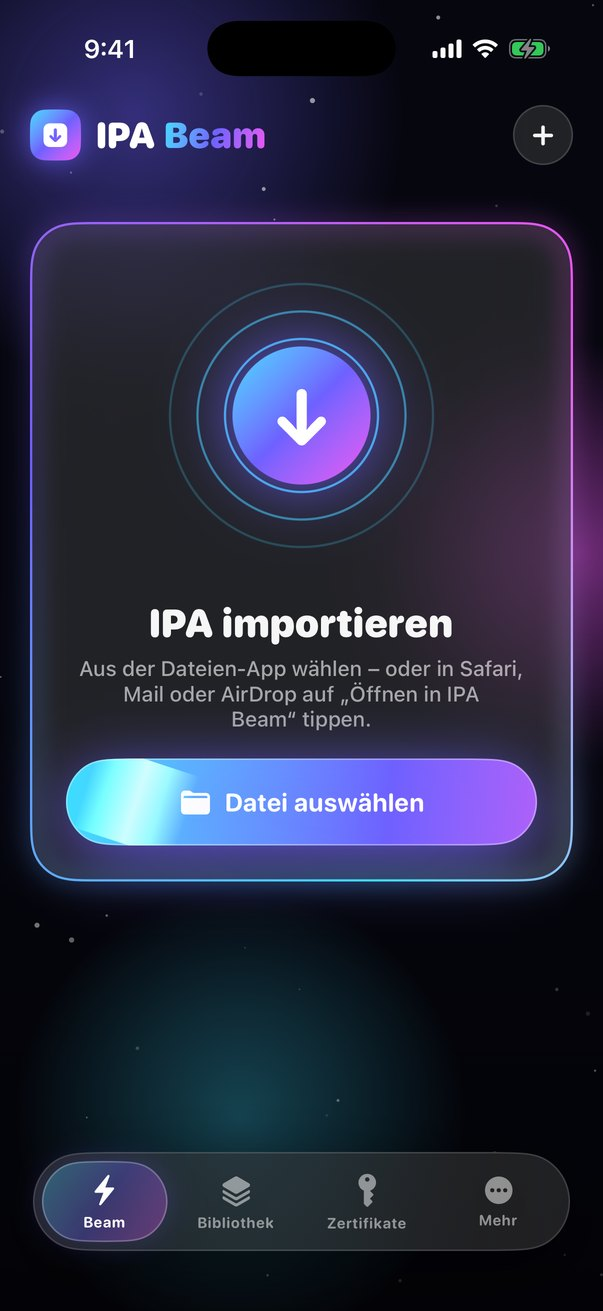
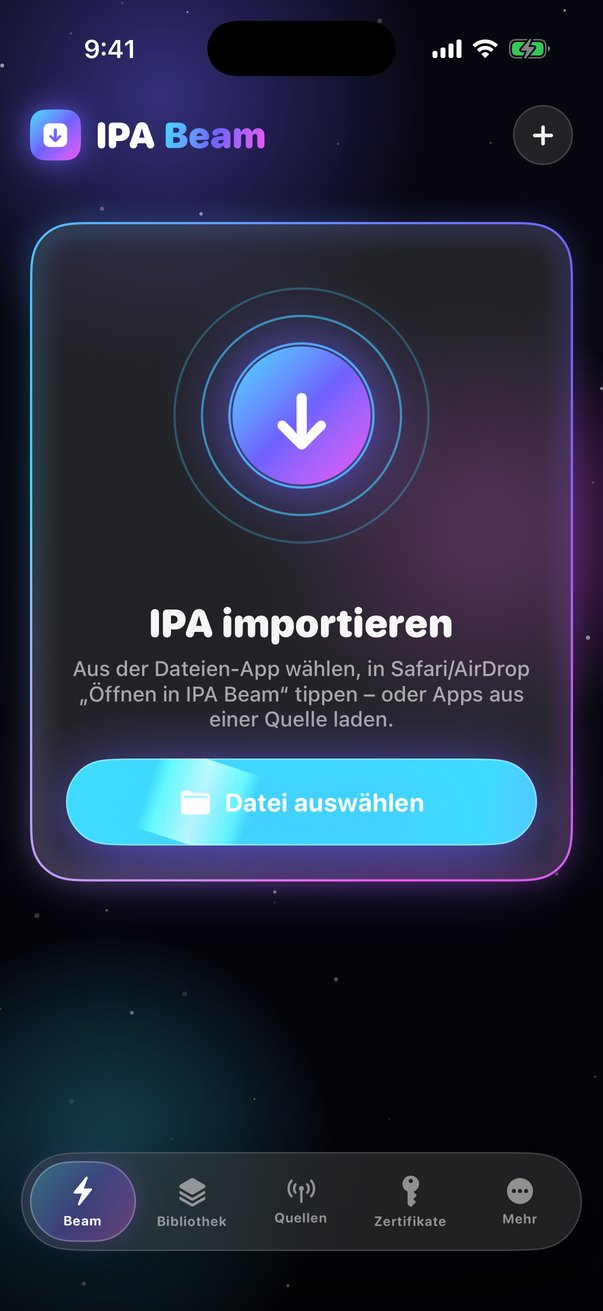
iOS: fix expiry day rounding, setup hint, screenshots and README
Claude-Session: https://claude.ai/code/session_01KfNsyFYdXsEB2hYcKwG2G2

diff --git a/ios/IPABeam/Views/BeamView.swift b/ios/IPABeam/Views/BeamView.swift
@@ -84,7 +84,7 @@ struct BeamView: View {
         if state.selectedSigning == nil { return "Füge unter „Zertifikate“ dein .p12 + Profil hinzu." }
         if state.installReady == false { return "Einmalig nötig: „Mehr → Installation einrichten“." }
         if let expires = state.selectedApp?.expiresAt {
-            let days = max(0, Calendar.current.dateComponents([.day], from: Date(), to: expires).day ?? 0)
+            let days = max(0, Int((expires.timeIntervalSinceNow / 86_400).rounded(.up)))
             return "Signatur gültig noch \(days) Tage – danach einfach erneut installieren."
         }
         return "Signiert und installiert direkt auf diesem iPhone."

diff --git a/ios/IPABeam/Views/LibraryView.swift b/ios/IPABeam/Views/LibraryView.swift
@@ -71,7 +71,7 @@ private struct LibraryTile: View {
                         .font(.system(size: 11, weight: .medium))
                         .foregroundStyle(.white.opacity(0.5))
                     if let expires = app.expiresAt {
-                        let days = max(0, Calendar.current.dateComponents([.day], from: Date(), to: expires).day ?? 0)
+                        let days = max(0, Int((expires.timeIntervalSinceNow / 86_400).rounded(.up)))
                         Text(days == 0 ? "Abgelaufen" : "Noch \(days) Tage")
                             .font(.system(size: 10, weight: .bold))
                             .foregroundStyle(days < 3 ? Theme.warning : Theme.success)

diff --git a/ios/IPABeam/Views/MoreView.swift b/ios/IPABeam/Views/MoreView.swift
@@ -93,7 +93,7 @@ struct InstallSetupCard: View {
                     }
                     .buttonStyle(SmallGradientButton())
                 }
-                setupStep(2, "Profil installieren", "Einstellungen → Allgemein → VPN und Geräteverwaltung → „IPA Beam – lokale Installation“ → Installieren.") {
+                setupStep(2, "Profil installieren", "Einstellungen → „Profil geladen“ (ganz oben) bzw. Allgemein → VPN und Geräteverwaltung → Installieren.") {
                     Button("Einstellungen") {
                         if let url = URL(string: UIApplication.openSettingsURLString) {
                             UIApplication.shared.open(url)

diff --git a/README.md b/README.md
@@ -25,20 +25,28 @@ Native macOS-Version (SwiftUI):
 |---|---|
 | ![macOS Bereit](docs/screenshots/macos/ready.jpg) | ![macOS Erfolg](docs/screenshots/macos/success.jpg) |
 
-iPhone-App (Stufe 1):
+iPhone-App:
 
-| Beam | Bibliothek | Zertifikate |
-|---|---|---|
-| <img src="docs/screenshots/ios/ready.jpg" width="260"> | <img src="docs/screenshots/ios/library.jpg" width="260"> | <img src="docs/screenshots/ios/certs.jpg" width="260"> |
+| Beam | Installation läuft | Quellen & Updates | Einrichtung |
+|---|---|---|---|
+| <img src="docs/screenshots/ios/ready.jpg" width="200"> | <img src="docs/screenshots/ios/run.jpg" width="200"> | <img src="docs/screenshots/ios/sources.jpg" width="200"> | <img src="docs/screenshots/ios/setup.jpg" width="200"> |
 
-## 📱 iPhone-App (Ordner [`ios/`](ios))
+## 📱 iPhone-App (Ordner [`ios/`](ios)) – ohne PC
 
-- IPA aus Dateien, Safari, Mail oder AirDrop öffnen („Öffnen in IPA Beam“) – Icon, Name, Version werden angezeigt
-- Bibliothek aller importierten IPAs (Teilen, Löschen)
-- Zertifikat (.p12 + Passwort, sicher im iOS-Schlüsselbund) und Provisioning-Profil hinzufügen und prüfen
-- **Noch nicht enthalten:** Signieren und Installieren direkt auf dem iPhone (nächste Stufe). Bis dahin installiert man Apps mit der PC/Mac-Version.
-- Installation der iPhone-App selbst: Artefakt **IPA-Beam-iOS-unsigned** aus *Actions → Build iOS App* mit IPA Beam am PC/Mac (Neu signieren aktiv) aufs iPhone beamen.
-- Selbst bauen: `cd ios && brew install xcodegen && xcodegen generate && open IPABeam.xcodeproj`
+- **IPA öffnen** aus Dateien, Safari, Mail oder AirDrop („Öffnen in IPA Beam“)
+- **Signieren direkt auf dem iPhone** – zsign ist in die App eingebaut (mit OpenSSL)
+- **Installieren direkt auf dem iPhone** – über den iOS-eigenen Installer:
+  1. *Mehr → Installation einrichten → Profil laden* (Safari lädt das Profil)
+  2. Profil in den Einstellungen installieren
+  3. *Allgemein → Info → Zertifikatsvertrauenseinstellungen* → „IPA Beam Local CA“ einschalten
+
+  Das Zertifikat wird **auf deinem iPhone erzeugt**, gilt **nur für 127.0.0.1**, und der Hauptschlüssel wird sofort verworfen.
+- **Quellen & Updates ohne neue .ipa**: App-Listen im AltStore/SideStore-Format abonnieren. IPA Beam erkennt neue Versionen und aktualisiert per Tipp (laden → signieren → installieren).
+- **Ablauf-Anzeige**: mit kostenloser Apple‑ID laufen Signaturen nach 7 Tagen ab – „Erneut installieren“ erneuert sie.
+- **Erste Installation von IPA Beam selbst** (einmalig mit PC/Mac): Artefakt **IPA-Beam-iOS-unsigned** aus *Actions → Build iOS App* mit IPA Beam Desktop (Neu signieren an) aufs iPhone beamen.
+- Selbst bauen: `cd ios && ./scripts/fetch-zsign.sh && brew install xcodegen && xcodegen generate && open IPABeam.xcodeproj`
+
+> ⚠ Die Installation auf dem iPhone konnte noch nicht auf einem echten Gerät getestet werden (nur im Simulator gebaut).
 
 ## 📦 Zwei Versionen
 
@@ -102,4 +110,4 @@ npm run screenshots       # Demo-Screenshots rendern
 
 - **Verschlüsselte IPAs** (direkt aus dem App Store) lassen sich nicht installieren.
 - Nutze die App nur für Apps, die du rechtmäßig verwenden darfst (eigene Apps, Open Source, Testbuilds).
-- Verwendete Open-Source-Komponenten: [appium-ios-device](https://github.com/appium/appium-ios-device) (Apache‑2.0), [zsign](https://github.com/zhlynn/zsign), Schrift [Inter](https://rsms.me/inter/) (OFL).
+- Verwendete Open-Source-Komponenten: [appium-ios-device](https://github.com/appium/appium-ios-device) (Apache‑2.0), [zsign](https://github.com/zhlynn/zsign) (MIT), [OpenSSL](https://github.com/krzyzanowskim/OpenSSL) (Apache‑2.0), [ZIPFoundation](https://github.com/weichsel/ZIPFoundation) (MIT), Schrift [Inter](https://rsms.me/inter/) (OFL).
